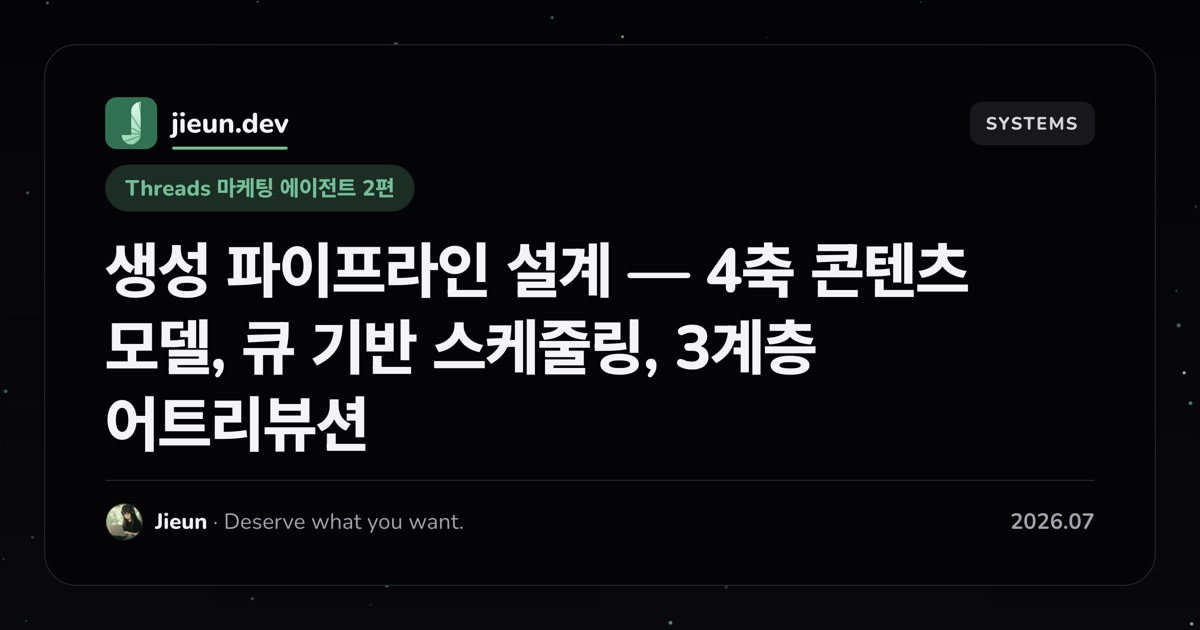
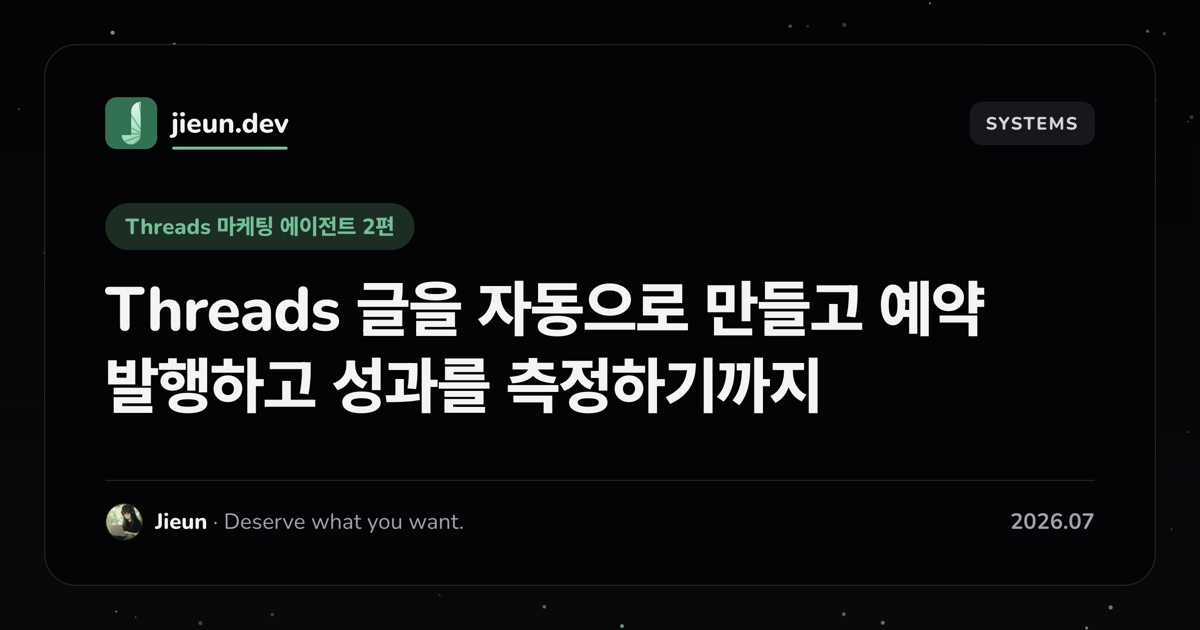
Threads 연재 3편과 QPS 글을 비공개(draft)로 돌린다
- Threads 2편 한국어판은 가독성 개편본(제목·구성 변경)을 함께 보관한다
- 사이트 목록·RSS·사이트맵에서 빠지고 배포판에서는 페이지를 만들지 않는다
- 로컬 npm run dev 에서는 그대로 보인다

Changed region(s): [[0.0925, 0.2413, 0.8325, 0.7238]]

diff --git a/src/content/blog/ko/scaling-qps-10x-in-production-3-strategies-that-actually-move-the-needle.md b/src/content/blog/ko/scaling-qps-10x-in-production-3-strategies-that-actually-move-the-needle.md
@@ -8,6 +8,7 @@ tags: ['system-design', 'caching', 'performance', 'optimization']
 category: scaling
 cover: /covers/scaling-qps-10x-in-production-3-strategies-that-actually-move-the-needle.webp
 coverAlt: '요청 처리량을 높이는 세 가지 접근 — 캐싱, DB 최적화, 비동기·배칭'
+draft: true
 ---
 ## 들어가며
 

diff --git a/src/content/blog/en/scaling-qps-10x-in-production-3-strategies-that-actually-move-the-needle.md b/src/content/blog/en/scaling-qps-10x-in-production-3-strategies-that-actually-move-the-needle.md
@@ -7,6 +7,7 @@ tags: ['system-design', 'caching', 'performance', 'optimization']
 category: scaling
 cover: /covers/scaling-qps-10x-in-production-3-strategies-that-actually-move-the-needle.webp
 coverAlt: 'Scaling QPS 10x in Production: 3 Strategies That Actually Move the Needle'
+draft: true
 ---
 
 ## Introduction

diff --git a/src/content/blog/ko/designing-a-crawler-that-beats-three-tiers-of-anti-bot-from-tls-fingerprints-to-cdp-detection.md b/src/content/blog/ko/designing-a-crawler-that-beats-three-tiers-of-anti-bot-from-tls-fingerprints-to-cdp-detection.md
@@ -10,6 +10,7 @@ coverAlt: '3단계 anti-bot을 뚫는 크롤러 설계 — TLS fingerprint부터
 series: threads-agent
 seriesOrder: 1
 seriesTitle: 'Threads 마케팅 에이전트 만들기'
+draft: true
 ---
 
 ## 들어가며

diff --git a/src/content/blog/en/designing-a-crawler-that-beats-three-tiers-of-anti-bot-from-tls-fingerprints-to-cdp-detection.md b/src/content/blog/en/designing-a-crawler-that-beats-three-tiers-of-anti-bot-from-tls-fingerprints-to-cdp-detection.md
@@ -10,6 +10,7 @@ coverAlt: 'Designing a Crawler That Beats Three Tiers of Anti-Bot — From TLS F
 series: threads-agent
 seriesOrder: 1
 seriesTitle: 'Building a Threads Marketing Agent'
+draft: true
 ---
 
 <a id="tldr"></a>

diff --git a/src/content/blog/en/designing-a-generation-pipeline-a-4-axis-content-model-queue-based-scheduling-3-layer-attribution.md b/src/content/blog/en/designing-a-generation-pipeline-a-4-axis-content-model-queue-based-scheduling-3-layer-attribution.md
@@ -10,6 +10,7 @@ coverAlt: 'Designing a Generation Pipeline — A 4-Axis Content Model, Queue-Bas
 series: threads-agent
 seriesOrder: 2
 seriesTitle: 'Building a Threads Marketing Agent'
+draft: true
 ---
 
 <a id="tldr"></a>

diff --git a/src/content/blog/en/driving-multi-account-threads-engagement-with-anti-detect-browsers-a-brain-hands-split-cdp-and-detection-aware-pacing.md b/src/content/blog/en/driving-multi-account-threads-engagement-with-anti-detect-browsers-a-brain-hands-split-cdp-and-detection-aware-pacing.md
@@ -10,6 +10,7 @@ coverAlt: 'A multi-account profile list in the AdsPower anti-detect browser — 
 series: threads-agent
 seriesOrder: 3
 seriesTitle: 'Building a Threads Marketing Agent'
+draft: true
 ---
 
 <a id="tldr"></a>
